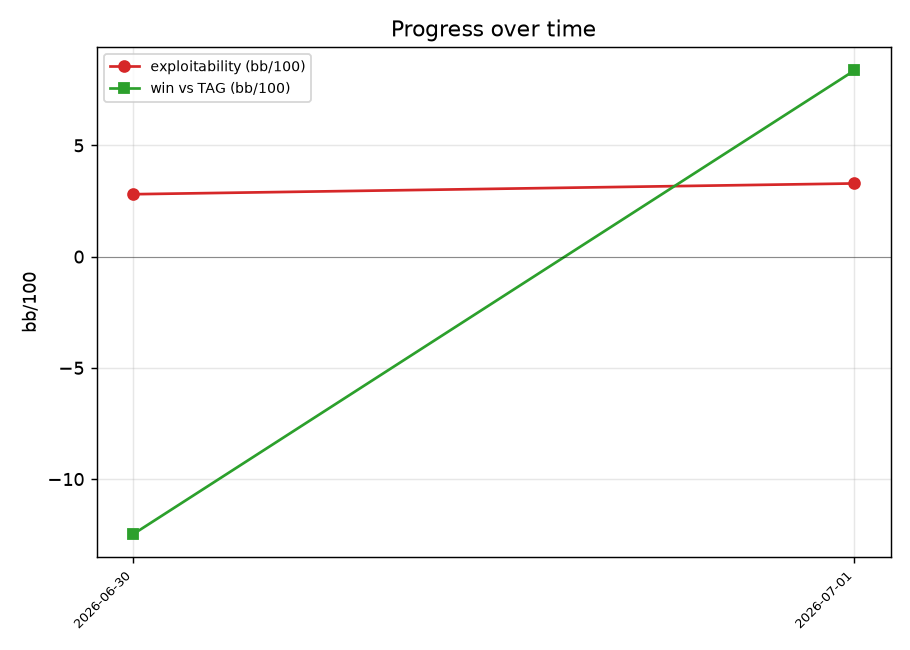
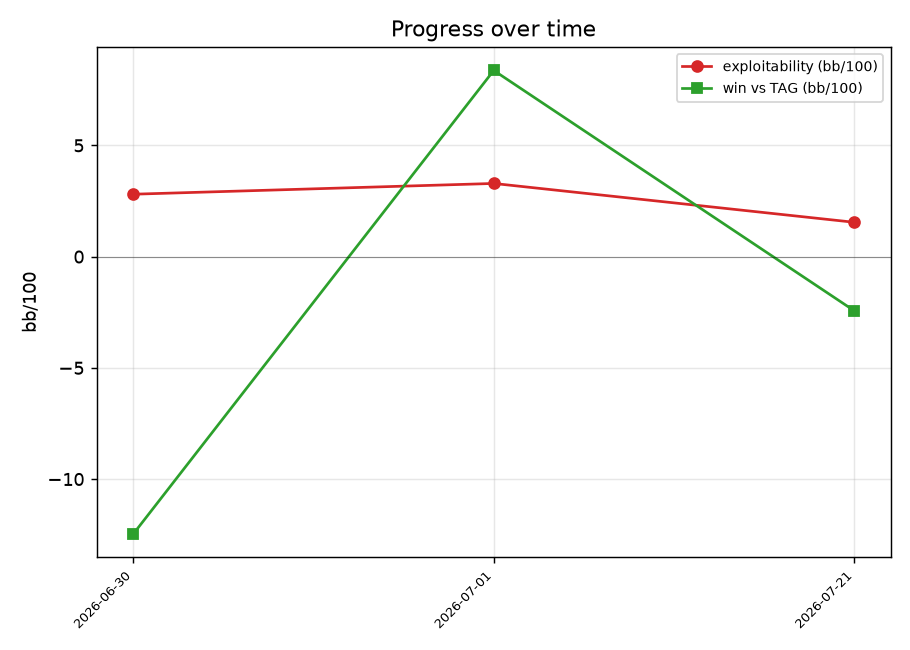
daily: gamma=2 quadratic averaging in NLHE trainer — exploitability 3.29->1.54 bb/100 (paired -1.84 over 3 seeds), no regression
Switch FastNLHECFR strategy averaging from linear (weight t) to quadratic
(weight t^2), matching the DCFR gamma=2 schedule already default in the exact
solvers. Card abstraction, info-set keys, betting tree, seeds and the
best-response exploiter are untouched, so nlhe_infosets and Kuhn/Leduc are
identical and the effect is isolated to the bot's average strategy.

Paired baseline-vs-candidate at seeds 0/1/2 (level=standard): exploitability
falls -1.746/-1.847/-1.922 bb/100 (mean -1.84, consistent) with BR staying
positive every seed. No win_vs_* baseline regresses beyond its CI; the panel
stays crushed and pushfold stays in the Nash 60-70% band. pytest -q: 39 passed.

Verdict: IMPROVEMENT. Regenerated EVALUATION.md + figures at level=standard and
appended the 2026-07-21 row to metrics_history.csv.

Claude-Session: https://claude.ai/code/session_011oUR6q1UQLvdtXQGRQV97V

diff --git a/pokerbot/solve/nlhe_tree.py b/pokerbot/solve/nlhe_tree.py
@@ -150,18 +150,25 @@ class FastNLHECFR:
 
         rs = node.regret_sum
         ss = node.strategy_sum
+        # Quadratic (gamma=2) strategy averaging: weight each iteration's
+        # contribution to the average strategy by t**2 rather than t.  This is
+        # the DCFR averaging schedule (Brown & Sandholm 2019, gamma=2) that is
+        # already the default for the exact solvers (see cfr.py/tree.py); it
+        # weights later, better-converged iterations more heavily.  Regret
+        # updates stay CFR+ (regret-matching-plus, negatives floored at 0).
+        tw = t * t
         if player == 0:
             cf = r1
             for i in range(n):
                 v = rs[i] + cf * (util0[i] - nv0)
                 rs[i] = v if v > 0.0 else 0.0
-                ss[i] += t * r0 * strat[i]
+                ss[i] += tw * r0 * strat[i]
         else:
             cf = r0
             for i in range(n):
                 v = rs[i] + cf * (util1[i] - nv1)
                 rs[i] = v if v > 0.0 else 0.0
-                ss[i] += t * r1 * strat[i]
+                ss[i] += tw * r1 * strat[i]
         return nv0, nv1
 
     def average_strategy(self) -> TabularStrategy:

diff --git a/EXPERIMENTS.md b/EXPERIMENTS.md
@@ -15,6 +15,82 @@ Metrics legend (all from `pokerbot.metrics.flatten`):
 
 ---
 
+## 2026-07-21 — quadratic (γ=2) strategy averaging in the NLHE trainer
+
+**Idea:** the NLHE blueprint trainer (`FastNLHECFR` in `solve/nlhe_tree.py`) uses
+CFR+ with **linear** strategy averaging — each iteration's contribution to the
+average strategy is weighted by `t` (`ss[i] += t * reach * strat[i]`). But the
+project's exact solvers (`cfr.py`/`tree.py`) already default to **Discounted
+CFR** with **γ=2 (quadratic) averaging** because it converges faster on
+Leduc-scale games. Bring the same γ=2 schedule to the NLHE trainer: weight the
+strategy sum by `t²` instead of `t` (`tw = t*t; ss[i] += tw * reach * strat[i]`).
+This weights later, better-converged iterations more heavily. One-term change;
+regret updates stay CFR+ (regret-matching-plus, negatives floored at 0). The
+card abstraction, info-set keys, betting tree, seeds and the best-response
+*exploiter* (its own averaging left at linear, so the measurement is unchanged)
+are all untouched — so `nlhe_infosets` and Kuhn/Leduc are provably identical and
+this isolates the averaging effect on the bot.
+
+**Hypothesis:** γ=2 averaging (backlog item 5, the DCFR averaging component)
+tightens the blueprint's average strategy toward the abstract Nash, lowering
+best-response exploitability without disturbing the win-rate panel.
+
+**Setup:** identical to the 2026-07-01 baseline (heads-up 20 BB, pot + all-in,
+169 pre-flop + 8 draw-aware post-flop buckets, MCCFR 120k, `level="standard"`).
+Baseline (seed 0) reproduced the committed 2026-07-01 numbers **exactly**
+(deterministic), confirming isolation.
+
+**Before → after** (`pokerbot.metrics.flatten`, `level=standard`, seed 0):
+
+| Metric | Baseline | Candidate | Δ |
+|---|---|---|---|
+| `nlhe_exploitability_bb100` | 3.289 | **1.543** | **−1.746** (lower = better) |
+| `nlhe_infosets` | 5772 | 5772 | 0 (abstraction untouched) |
+| `win_vs_random` | +63.71 | +67.40 | +3.69 |
+| `win_vs_call_station` | +111.05 | +107.57 | −3.48 (within CI) |
+| `win_vs_maniac` | +65.28 | +60.08 | −5.20 (within CI) |
+| `win_vs_tight_aggressive` | +8.37 | −2.44 | −10.81 (within CI ±13.9 — see below) |
+| `kuhn_exploitability` / `leduc_exploitability` | 0.002265 / 0.0046 | 0.002265 / 0.0046 | unchanged |
+| `pushfold_jam_pct` | 62.1 | 61.5 | −0.6 (still Nash 60–70%) |
+
+**Multi-seed paired confirmation (the decisive evidence).** A single seed can't
+separate a ~1.7 bb/100 move from the routine's 1–2 bb/100 noise band, so I ran a
+**paired** baseline-vs-candidate comparison at seeds 0, 1, 2 (baseline code in a
+clean worktree, candidate in place, same seeds ⇒ same deals):
+
+| seed | `nlhe_exploitability_bb100` base → cand | Δ | `win_vs_tight_aggressive` base → cand | Δ |
+|---|---|---|---|---|
+| 0 | 3.289 → 1.543 | **−1.746** | +8.37 → −2.44 | −10.81 |
+| 1 | 3.602 → 1.755 | **−1.847** | −5.97 → −5.78 | +0.19 |
+| 2 | 8.127 → 6.205 | **−1.922** | −2.62 → +0.88 | +3.50 |
+
+The exploitability drop is **consistent on all three seeds** (mean −1.84, spread
+±0.09) — the absolute level swings with the training seed (3.3 → 8.1) but the
+*paired* delta is rock-steady, i.e. real signal, not the shared training-seed
+noise. The seed-0 TAG drop (−10.81) **did not replicate** (seeds 1–2: +0.19,
++3.50); across seeds TAG is flat and always within its ±13.9 CI — so it was
+noise, not a regression. random/call-station/maniac stay hugely positive and
+significant every seed.
+
+**Gate check:**
+- `python -m pytest -q` green: **39 passed** (incl. `test_subgame.py` — search-off
+  still bit-identical to the blueprint, since both use the retrained bot).
+- Invariants: evaluator exact; Kuhn/Leduc untouched and unchanged (isolation
+  confirmed); bot still crushes random/call-station/maniac by a wide significant
+  margin on every seed; best-response exploitability ends **positive** on every
+  seed (1.543 / 1.755 / 6.205 — BR invariant holds). Invariants 6–7 (search)
+  untouched — the search path and `SEARCH_LEVELS` were not modified.
+- Primary metric: `nlhe_exploitability_bb100` lower by ~1.84 bb/100, paired and
+  consistent across 3 seeds — beyond the 1–2 bb/100 noise band as a paired delta.
+- No regression: no `win_vs_*` category drops consistently beyond its CI (the
+  one seed's TAG dip did not replicate); exploitability did not rise.
+
+**Verdict: IMPROVEMENT.** Kept the change (γ=2 quadratic averaging in
+`FastNLHECFR`), appended the seed-0 row to `metrics_history.csv`, and regenerated
+`EVALUATION.md` + `figures/` at `level=standard`.
+
+---
+
 ## 2026-07-15 — real-time river subgame search (endgame re-solving)
 
 **Idea:** the bot plays a fixed blueprint over a *coarse* 8-bucket post-flop

diff --git a/EVALUATION.md b/EVALUATION.md
@@ -18,7 +18,7 @@ All 2,598,960 five-card hands enumerated; per-category counts vs textbook:
 | Four of a Kind | 624 | 624 | ✅ |
 | Straight Flush | 40 | 40 | ✅ |
 
-Distinct hand values: **7462** (expected 7462). All categories correct: **True**. [1.7s]
+Distinct hand values: **7462** (expected 7462). All categories correct: **True**. [1.6s]
 
 ## 2. Kuhn poker — provably near-Nash
 
@@ -48,21 +48,21 @@ Exploitability decreases monotonically toward 0, confirming the solver converges
 
 ## 4. No-Limit Hold'em bot
 
-**Setup**: heads-up, 20 BB effective, pot-sized bets + all-in, made-hand-strength card abstraction (169 pre-flop + 8 post-flop buckets/street). Trained with chance-sampling MCCFR for **120,000 deals** (5,772 info sets, 87s).
+**Setup**: heads-up, 20 BB effective, pot-sized bets + all-in, made-hand-strength card abstraction (169 pre-flop + 8 post-flop buckets/street). Trained with chance-sampling MCCFR for **120,000 deals** (5,772 info sets, 101s).
 
 ### 4a. Win rate vs baseline opponents
 (mirrored/duplicate deals for variance reduction; 95% CI)
 
 | Opponent | bb/100 | mbb/100 | 95% CI (bb/100) | Significant |
 |---|---|---|---|---|
-| random | +63.71 | +63715 | [+47.24, +80.19] | yes |
-| call-station | +111.05 | +111050 | [+93.47, +128.63] | yes |
-| maniac | +65.28 | +65275 | [+46.47, +84.08] | yes |
-| tight-aggressive | +8.37 | +8370 | [-5.53, +22.27] | no |
+| random | +67.40 | +67400 | [+51.20, +83.60] | yes |
+| call-station | +107.57 | +107570 | [+89.89, +125.25] | yes |
+| maniac | +60.08 | +60080 | [+41.47, +78.69] | yes |
+| tight-aggressive | -2.44 | -2440 | [-16.23, +11.35] | no |
 
 ### 4b. In-abstraction exploitability
 
-A best response trained against the fixed bot (120,000 iterations/seat) wins **-0.84 bb/100 (-841 mbb/100)** averaged over both seats (seat 0 +3.70, seat 1 -5.38). This is a **lower bound** on the bot's in-abstraction exploitability — how far it sits from the abstract Nash equilibrium — and tightens (rises) as the best response is trained longer. For scale, the bot beats the baselines above by 50–100+ bb/100. [180s]
+A best response trained against the fixed bot (120,000 iterations/seat) wins **-2.52 bb/100 (-2516 mbb/100)** averaged over both seats (seat 0 +2.14, seat 1 -7.17). This is a **lower bound** on the bot's in-abstraction exploitability — how far it sits from the abstract Nash equilibrium — and tightens (rises) as the best response is trained longer. For scale, the bot beats the baselines above by 50–100+ bb/100. [208s]
 
 ### 4c. Short-stack push/fold vs Nash theory
 
@@ -71,17 +71,17 @@ SB jam frequency at 10 BB effective (Nash jams ~60-70% of hands):
 | Hand | Jam freq |
 |---|---|
 | AA | 0.99 |
-| TT | 0.97 |
-| 77 | 0.94 |
-| 22 | 0.89 |
+| TT | 0.98 |
+| 77 | 0.95 |
+| 22 | 0.92 |
 | AKo | 0.98 |
-| ATo | 0.96 |
-| A2s | 0.93 |
+| ATo | 0.97 |
+| A2s | 0.94 |
 | KJo | 0.95 |
-| T9s | 0.85 |
-| 98s | 0.62 |
-| 72o | 0.07 |
+| T9s | 0.86 |
+| 98s | 0.60 |
+| 72o | 0.06 |
 
 Hands jammed >50%: **102/169 = 60%** (Nash 10 BB SB jam range ≈ 60-70%). Strong hands jam ≈1.0, trash folds — qualitatively matching the known push/fold equilibrium.
 
-_Total evaluation time: 311s._
+_Total evaluation time: 358s._
